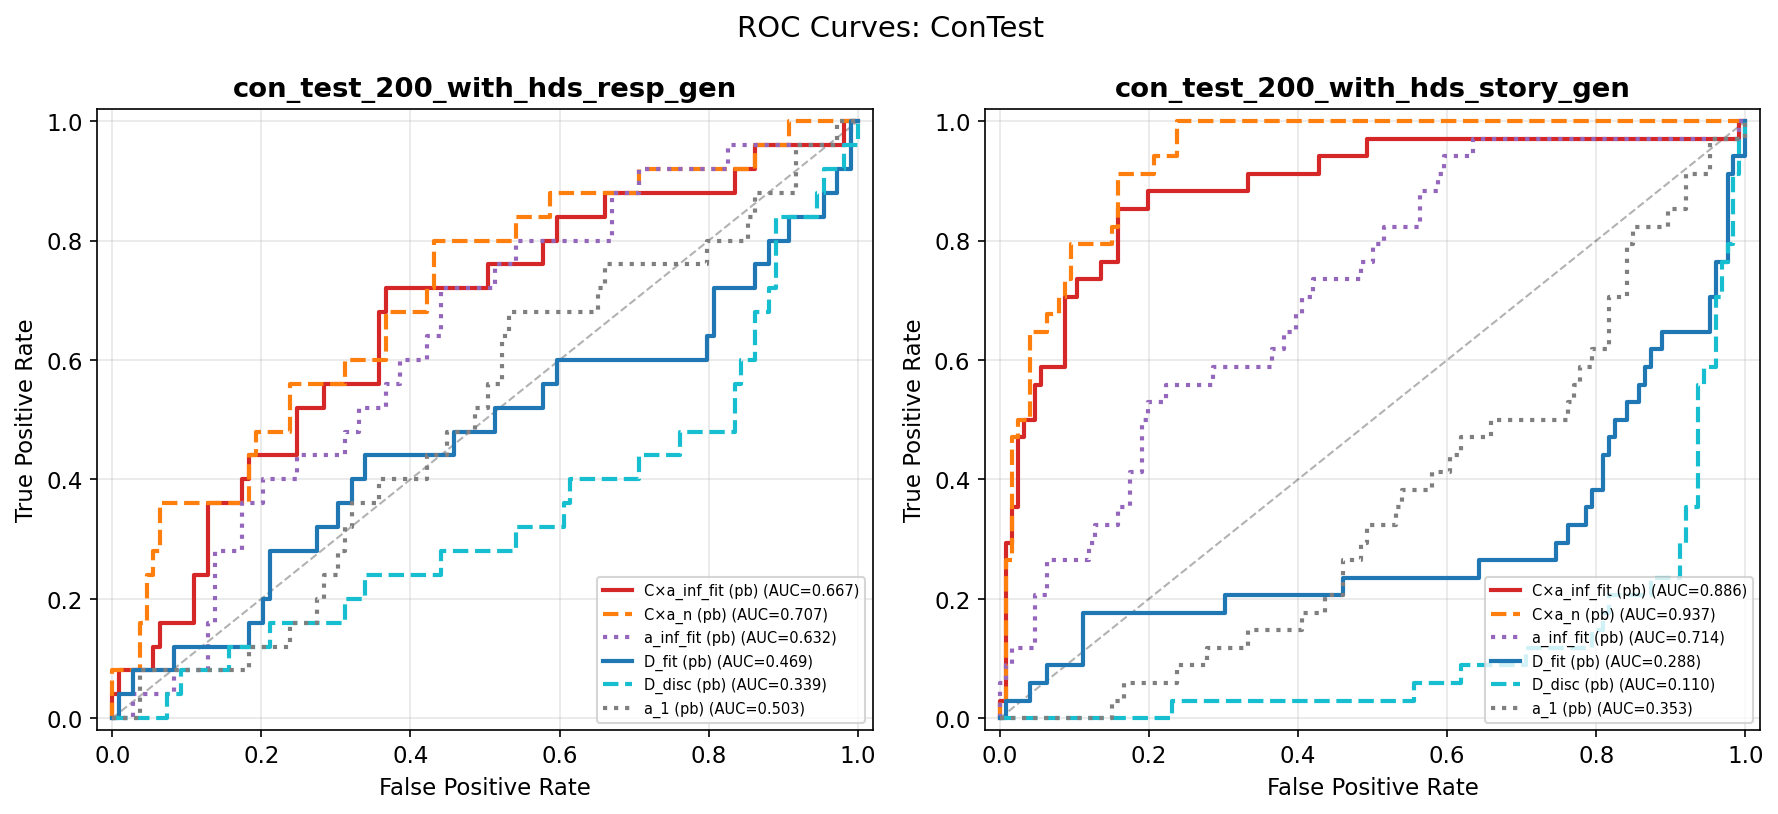
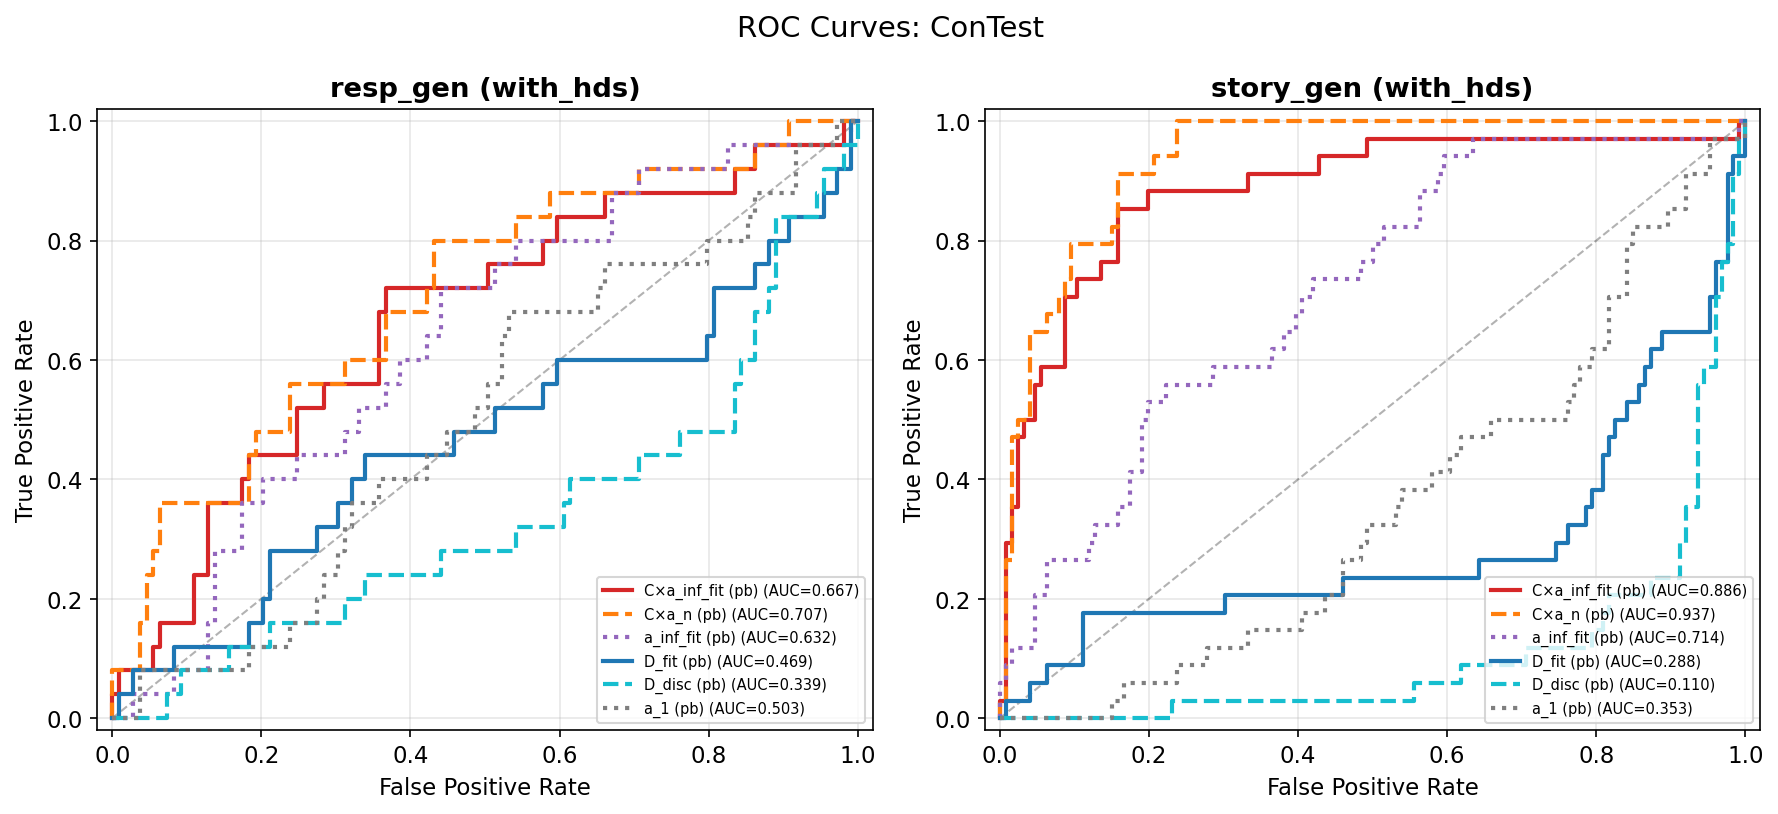
Fix duplicate sample_id bug in compute script; add README
The compute script used sample_id as the sidecar dictionary key.
When the same sample_id appears with different response sets (e.g.,
ConTest has one diverse and one non-diverse set per prompt), the
second row overwrote the first, causing label imbalance.

Fix: detect duplicate sample_ids and use compound keys
("{sample_id}__row{idx}") for disambiguation. The key is written
to a new "sidecar_key" CSV column so analysis scripts can join on
it. Analysis scripts fall back to sample_id for old CSVs.

Also:
- Add _pretty_title() for readable plot subplot titles
- Add README.md documenting data provenance, known issues, and
  file inventory for the c_ainf_analysis figures directory
- Regenerate figures with improved titles

Changed region(s): [[0.6187, 0.0921, 0.928, 0.1229], [0.1237, 0.0921, 0.4331, 0.1229]]

diff --git a/scripts/compute_icl_metrics_for_tevet.py b/scripts/compute_icl_metrics_for_tevet.py
@@ -385,11 +385,38 @@ def process_csv(
     old_icl_cols = [f for f in fieldnames if f.startswith("metric_icl_") and f not in all_new_cols]
     clean_fieldnames = [f for f in fieldnames if f not in old_icl_cols]
 
-    # Build output fieldnames: existing non-ICL + new tagged columns
+    # Build output fieldnames: existing non-ICL + sidecar_key + new tagged columns
     new_fieldnames = list(clean_fieldnames)
+    if "sidecar_key" not in new_fieldnames:
+        # Insert sidecar_key right after sample_id
+        sid_idx = new_fieldnames.index("sample_id") if "sample_id" in new_fieldnames else 0
+        new_fieldnames.insert(sid_idx + 1, "sidecar_key")
     for col in all_new_cols:
         if col not in new_fieldnames:
             new_fieldnames.append(col)
+
+    # Build unique sidecar keys: use sample_id when unique, append __rowN
+    # when the same sample_id appears multiple times (e.g., ConTest has the
+    # same prompt with both a diverse and non-diverse response set).
+    id_counts: dict[str, int] = {}
+    for row in rows:
+        sid = row["sample_id"]
+        id_counts[sid] = id_counts.get(sid, 0) + 1
+    has_dups = any(v > 1 for v in id_counts.values())
+    if has_dups:
+        dup_ids = {k for k, v in id_counts.items() if v > 1}
+        logger.info(
+            f"  {len(dup_ids)} sample_ids appear multiple times; "
+            f"using row index in sidecar keys to disambiguate"
+        )
+
+    sidecar_keys: list[str] = []
+    for row_idx, row in enumerate(rows):
+        sid = row["sample_id"]
+        if id_counts[sid] > 1:
+            sidecar_keys.append(f"{sid}__row{row_idx}")
+        else:
+            sidecar_keys.append(sid)
 
     # Pre-scan token lengths if we have a tokenizer
     row_token_counts: list[tuple[str, int]] = []
@@ -415,18 +442,19 @@ def process_csv(
         row_token_counts = [(row["sample_id"], 0) for row in rows]
 
     # --- Main processing loop ---
-    for row, (sample_id, token_count) in tqdm(
-        zip(rows, row_token_counts),
+    for row, sidecar_key, (sample_id, token_count) in tqdm(
+        zip(rows, sidecar_keys, row_token_counts),
         desc=csv_path.name,
         unit="set",
         total=len(rows),
     ):
         stats.token_counts.append(token_count)
+        row["sidecar_key"] = sidecar_key
 
         # Check tagged sidecar cache first
-        cached_entry = sidecar_data.get(sample_id)
+        cached_entry = sidecar_data.get(sidecar_key)
         if cached_entry is None:
-            # Fall back to legacy sidecar
+            # Fall back to legacy sidecar (legacy uses bare sample_id)
             cached_entry = legacy_sidecar.get(sample_id)
 
         if not force and cached_entry is not None and not cached_entry.get("skipped", False):
@@ -446,8 +474,8 @@ def process_csv(
                 row[std_col] = f"{std_metrics.get(key + '_std', 0.0):.6f}"
 
             # Copy to tagged sidecar if from legacy
-            if sample_id not in sidecar_data:
-                sidecar_data[sample_id] = cached_entry
+            if sidecar_key not in sidecar_data:
+                sidecar_data[sidecar_key] = cached_entry
             stats.cached += 1
             continue
 
@@ -460,7 +488,7 @@ def process_csv(
             else:
                 stats.skipped_error += 1
             if sample_id not in sidecar_data:
-                sidecar_data[sample_id] = cached_entry
+                sidecar_data[sidecar_key] = cached_entry
             stats.cached += 1
             continue
 
@@ -482,7 +510,7 @@ def process_csv(
                 row[col] = ""
             stats.skipped_token_limit += 1
             stats.token_limit_sample_ids.append(sample_id)
-            sidecar_data[sample_id] = {
+            sidecar_data[sidecar_key] = {
                 "skipped": True,
                 "reason": "token_limit",
                 "token_count": token_count,
@@ -509,7 +537,7 @@ def process_csv(
                 row[col] = ""
             stats.skipped_error += 1
             stats.error_sample_ids.append(sample_id)
-            sidecar_data[sample_id] = {
+            sidecar_data[sidecar_key] = {
                 "skipped": True,
                 "reason": "error",
                 "error": traceback.format_exc(),
@@ -532,7 +560,7 @@ def process_csv(
             row[std_col] = f"{std_metrics.get(key + '_std', 0.0):.6f}"
 
         # Save to sidecar cache
-        sidecar_data[sample_id] = {
+        sidecar_data[sidecar_key] = {
             "metrics": {
                 key: metrics[key]
                 for key in [

diff --git a/scripts/analyze_c_ainf.py b/scripts/analyze_c_ainf.py
@@ -48,8 +48,12 @@ def load_sidecar(sidecar_path: Path) -> dict[str, dict]:
 
 
 def load_csv_rows(csv_path: Path) -> dict[str, dict]:
+    """Load CSV rows keyed by sidecar_key (falls back to sample_id for old CSVs)."""
     with open(csv_path, newline="", encoding="utf-8") as f:
-        return {row["sample_id"]: row for row in csv.DictReader(f)}
+        rows = list(csv.DictReader(f))
+    # Use sidecar_key if present (handles duplicate sample_ids), else sample_id
+    key_col = "sidecar_key" if rows and "sidecar_key" in rows[0] else "sample_id"
+    return {row[key_col]: row for row in rows}
 
 
 def compute_per_byte_curve(entry: dict) -> list[float] | None:
@@ -300,7 +304,7 @@ def print_summary_table(
             continue
 
         binary = is_binary_dataset(samples)
-        task = dataset_name.split("/")[-1]
+        task = _pretty_title(dataset_name)
 
         for i, (display_name, key, higher_diverse) in enumerate(METRICS_TO_EVAL):
             scores = [s[key] for s in samples]
@@ -340,6 +344,22 @@ def print_summary_table(
 # Plots
 # ---------------------------------------------------------------------------
 
+
+def _pretty_title(dataset_name: str) -> str:
+    """Turn 'McDiv_nuggets/mcdiv_nuggets_200_with_hds_prompt_gen' into 'prompt_gen (with_hds)'."""
+    stem = dataset_name.split("/")[-1]
+    for marker in ("_with_hds_", "_no_hds_"):
+        if marker in stem:
+            task = stem.split(marker, 1)[1]
+            subset = marker.strip("_")
+            return f"{task} ({subset})"
+    # DecTest / McDiv: try extracting task from end
+    for suffix in ("_prompt_gen", "_resp_gen", "_story_gen"):
+        if stem.endswith(suffix):
+            return stem
+    return stem
+
+
 def plot_roc_curves(
     all_results: dict[str, list[dict]],
     dataset_filter: str,
@@ -369,7 +389,7 @@ def plot_roc_curves(
     fig.suptitle(f"ROC Curves: {group_name}", fontsize=14)
 
     for ax, (dataset_name, samples) in zip(axes, datasets.items()):
-        task = dataset_name.split("/")[-1]
+        task = _pretty_title(dataset_name)
         ax.plot([0, 1], [0, 1], "k--", alpha=0.3, linewidth=1)
 
         for display_name, key, color, ls in roc_metrics:
@@ -425,7 +445,7 @@ def plot_distributions(
     fig.suptitle(f"Score Distributions: {group_name}", fontsize=14, y=1.01)
 
     for col, (dataset_name, samples) in enumerate(sorted(datasets.items())):
-        task = dataset_name.split("/")[-1]
+        task = _pretty_title(dataset_name)
         for row, (display_name, key) in enumerate(metrics_to_plot):
             ax = axes[row, col]
             high = [s[key] for s in samples if s["label"] == 1.0 and not np.isnan(s[key])]
@@ -474,7 +494,7 @@ def plot_mean_ak_with_ainf(
     fig.suptitle(f"Mean a_k (bits/byte) with a_∞: {group_name}", fontsize=14)
 
     for ax, (dataset_name, samples) in zip(axes, sorted(datasets.items())):
-        task = dataset_name.split("/")[-1]
+        task = _pretty_title(dataset_name)
 
         for target_label, group_label, color in [
             (1.0, "High diversity", "tab:red"),

diff --git a/figures/tevet_validation/c_ainf_analysis/README.md b/figures/tevet_validation/c_ainf_analysis/README.md
@@ -1,0 +1,54 @@
+# C × a_∞ Analysis Figures
+
+## Data provenance
+
+- **Model**: Qwen/Qwen2.5-3B (base), float16
+- **Format**: completion mode (see `format_conditioning_context` in `src/icl_diversity/core.py`)
+- **Permutations**: 50
+- **Batch size**: 16, cuda:0
+- **Run tag**: `qwen25_completion_v2`
+- **Compute script**: `scripts/compute_icl_metrics_for_tevet.py`
+- **Compute log**: `compute_v2.log` (13,929 samples, 0 skips, 0 errors)
+- **Raw results**: `results/tevet/qwen25_completion_v2/` (18 CSVs + sidecar JSONs)
+
+## Analysis script
+
+All figures and `summary_table.txt` generated by:
+```
+uv run python scripts/analyze_c_ainf.py --run-tag qwen25_completion_v2
+```
+
+Source: `scripts/analyze_c_ainf.py`. Uses `scripts/fit_ak_curves.py` for exponential fitting.
+
+## Datasets evaluated
+
+| Dataset | Type | Samples per task | Labels | Notes |
+|---|---|---|---|---|
+| McDiv_nuggets (with_hds) | Binary | 189–193 | 0=low div, 1=high div | PRIMARY benchmark |
+| McDiv_nuggets (no_hds) | Binary | 765–790 | Same | Includes ambiguous samples |
+| ConTest (with_hds) | Binary | 100–160 | 0=low div, 1=high div | Duplicate sample_ids (see below) |
+| DecTest (1000 no_hds) | Continuous | 985–1000 | Temperature value | |
+| DecTest (200 with_hds) | Continuous | 203 | Temperature value | |
+| McDiv (no_hds) | Binary | 1000 | 0=low div, 1=high div | Only label=0 computed (pipeline bug) |
+
+## Known data issues
+
+1. **ConTest duplicate IDs**: Every sample_id in ConTest appears twice (once per label) with different response sets. The v2 compute used sample_id as sidecar key, so the second row overwrote the first, causing a label imbalance. Fixed in the compute script (commit TBD) by using compound sidecar keys for duplicate IDs. Affects ConTest results in this directory.
+
+2. **McDiv only label=0**: The full McDiv CSVs have 2000 rows but only 1000 were computed, all label=0. The other 1000 (label=1) share sample_ids with label=0 rows — same duplicate ID issue as ConTest. All McDiv results show NaN.
+
+3. **McDiv_nuggets label contamination**: 7–11 sample_ids per task appear with both labels. See Appendix B of the paper.
+
+4. **story_gen confound**: Low-diversity story_gen responses are intrinsically more surprising to the base model due to dataset construction (paraphrases of specific/dramatic endings). See Appendix B.
+
+## Files
+
+| File | Description |
+|---|---|
+| `summary_table.txt` | Full numeric table: 17 metrics × all datasets, Spearman ρ + ROC AUC |
+| `roc_curves_mcdiv_nuggets.png` | ROC curves for McDiv_nuggets (6 subplots) |
+| `roc_curves_con_test.png` | ROC curves for ConTest (2 subplots) |
+| `distributions_mcdiv_nuggets.png` | Score histograms high vs low div (4×6 grid) |
+| `distributions_con_test.png` | Score histograms high vs low div (4×2 grid) |
+| `mean_ak_with_ainf.png` | Mean a_k curves with a_∞ floor annotation (3 subplots) |
+| `*.caption.md` | Per-figure captions with source citations |
